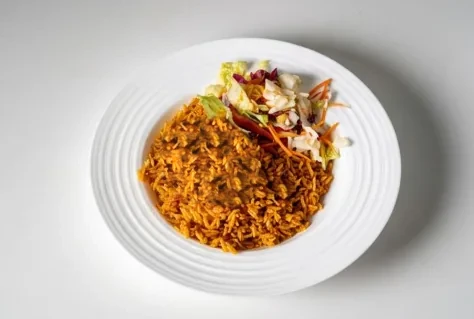
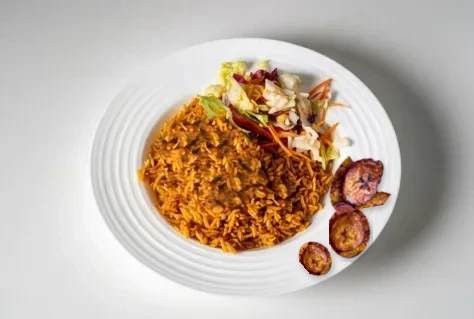
Add plantain to vegan combo photo; add Winter Deals coffee + Biscoff photo
Claude-Session: https://claude.ai/code/session_01WSUKo6G498EwVQPK9cHENv

Changed region(s): [[0.6203, 0.4796, 0.827, 0.8746]]

diff --git a/src/lib/siteImages.ts b/src/lib/siteImages.ts
@@ -23,7 +23,7 @@ export function storagePublicUrl(path: string): string {
 const BUNDLED = new Set([
   "about-image-1", "about-image-2", "abula", "afang-soup-new", "amstel-malt", "appletiser",
   "ayamase-ofada-stew", "ayamase", "bottled-water", "catfish-pepper-soup", "coca-cola",
-  "coconut-rice-new", "combo-deal", "vegan-combo", "customer-1", "customer-2", "customer-3", "customer-4", "eba",
+  "coconut-rice-new", "combo-deal", "vegan-combo", "coffee-biscoff", "customer-1", "customer-2", "customer-3", "customer-4", "eba",
   "edikaikong-new", "efo-riro-new", "egusi-soup-new", "ekpang-nkwkwo", "fanta", "founder",
   "fried-plantain", "fried-rice", "goat-head-isi-ewu", "grilled-chicken", "grilled-fish",
   "jollof-rice-plantain", "jollof-rice", "malta-guinness", "meatpie", "moi-moi-new",
